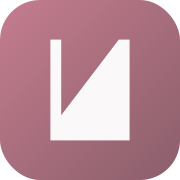
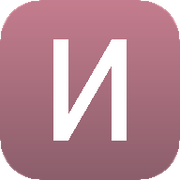
SEO: full metadata, robots.txt, sitemap, manifest, OG image
- robots.txt: allows crawling of public pages, blocks /api/, /admin/, /dashboard/
- sitemap.js: dynamic sitemap with static pages + published blog posts
- manifest.json: PWA manifest with Nitro branding and theme colors
- og-image.png: 1200x630 OG image with Nitro branding for social shares
- Layout metadata: title template, description, keywords, OG tags, Twitter card,
  robots directives, manifest link, canonical URL
- Apple touch icon updated to match new logo (180x180)
- Ready for Google Search Console verification

diff --git a/app/layout.jsx b/app/layout.jsx
@@ -2,14 +2,59 @@ import './globals.css';
 import SentryInit from '@/components/sentry-init';
 
 export const metadata = {
-  title: 'Nitro — #1 SMM Panel in Nigeria',
-  description: 'Buy Instagram followers, TikTok views, YouTube subscribers and more. Instant delivery, real engagement, cheapest rates in Nigeria.',
+  title: {
+    default: 'Nitro — #1 SMM Panel in Nigeria',
+    template: '%s | Nitro',
+  },
+  description: 'Buy Instagram followers, TikTok views, YouTube subscribers and more. Instant delivery, real engagement, cheapest rates in Nigeria. 35+ platforms supported.',
+  keywords: ['SMM panel', 'buy Instagram followers Nigeria', 'buy TikTok views', 'YouTube subscribers', 'social media marketing', 'SMM panel Nigeria', 'buy followers', 'buy likes', 'Nigerian SMM', 'cheap followers', 'instant delivery'],
+  authors: [{ name: 'Nitro', url: 'https://nitro.ng' }],
+  creator: 'Nitro',
+  publisher: 'Nitro',
+  metadataBase: new URL('https://nitro.ng'),
+  alternates: {
+    canonical: '/',
+  },
+  openGraph: {
+    title: 'Nitro — #1 SMM Panel in Nigeria',
+    description: 'Buy Instagram followers, TikTok views, YouTube subscribers and more. Instant delivery, real engagement, 35+ platforms.',
+    url: 'https://nitro.ng',
+    siteName: 'Nitro',
+    images: [{ url: '/og-image.png', width: 1200, height: 630, alt: 'Nitro SMM Panel' }],
+    locale: 'en_NG',
+    type: 'website',
+  },
+  twitter: {
+    card: 'summary_large_image',
+    title: 'Nitro — #1 SMM Panel in Nigeria',
+    description: 'Buy Instagram followers, TikTok views, YouTube subscribers and more. Instant delivery, real engagement.',
+    images: ['/og-image.png'],
+    creator: '@TheNitroNG',
+    site: '@TheNitroNG',
+  },
+  robots: {
+    index: true,
+    follow: true,
+    googleBot: {
+      index: true,
+      follow: true,
+      'max-video-preview': -1,
+      'max-image-preview': 'large',
+      'max-snippet': -1,
+    },
+  },
   icons: {
     icon: [
       { url: '/favicon.png', sizes: '32x32', type: 'image/png' },
       { url: '/icon-192.png', sizes: '192x192', type: 'image/png' },
     ],
     apple: '/apple-touch-icon.png',
+  },
+  manifest: '/manifest.json',
+  verification: {
+    // Add these when you set up Google Search Console and Bing Webmaster Tools
+    // google: 'your-google-verification-code',
+    // yandex: 'your-yandex-verification-code',
   },
 };
 

diff --git a/app/sitemap.js b/app/sitemap.js
@@ -1,0 +1,32 @@
+export default async function sitemap() {
+  const base = 'https://nitro.ng';
+
+  const staticPages = [
+    { url: base, lastModified: new Date(), changeFrequency: 'weekly', priority: 1.0 },
+    { url: `${base}/faq`, lastModified: new Date(), changeFrequency: 'monthly', priority: 0.7 },
+    { url: `${base}/blog`, lastModified: new Date(), changeFrequency: 'weekly', priority: 0.8 },
+    { url: `${base}/terms`, lastModified: new Date(), changeFrequency: 'yearly', priority: 0.3 },
+    { url: `${base}/privacy`, lastModified: new Date(), changeFrequency: 'yearly', priority: 0.3 },
+    { url: `${base}/refund`, lastModified: new Date(), changeFrequency: 'yearly', priority: 0.3 },
+    { url: `${base}/cookie`, lastModified: new Date(), changeFrequency: 'yearly', priority: 0.2 },
+  ];
+
+  // Fetch published blog posts for dynamic URLs
+  let blogPages = [];
+  try {
+    const prisma = (await import('@/lib/prisma')).default;
+    const posts = await prisma.blogPost.findMany({
+      where: { published: true },
+      select: { slug: true, updatedAt: true },
+      orderBy: { updatedAt: 'desc' },
+    });
+    blogPages = posts.map(p => ({
+      url: `${base}/blog/${p.slug}`,
+      lastModified: p.updatedAt,
+      changeFrequency: 'monthly',
+      priority: 0.6,
+    }));
+  } catch {}
+
+  return [...staticPages, ...blogPages];
+}
